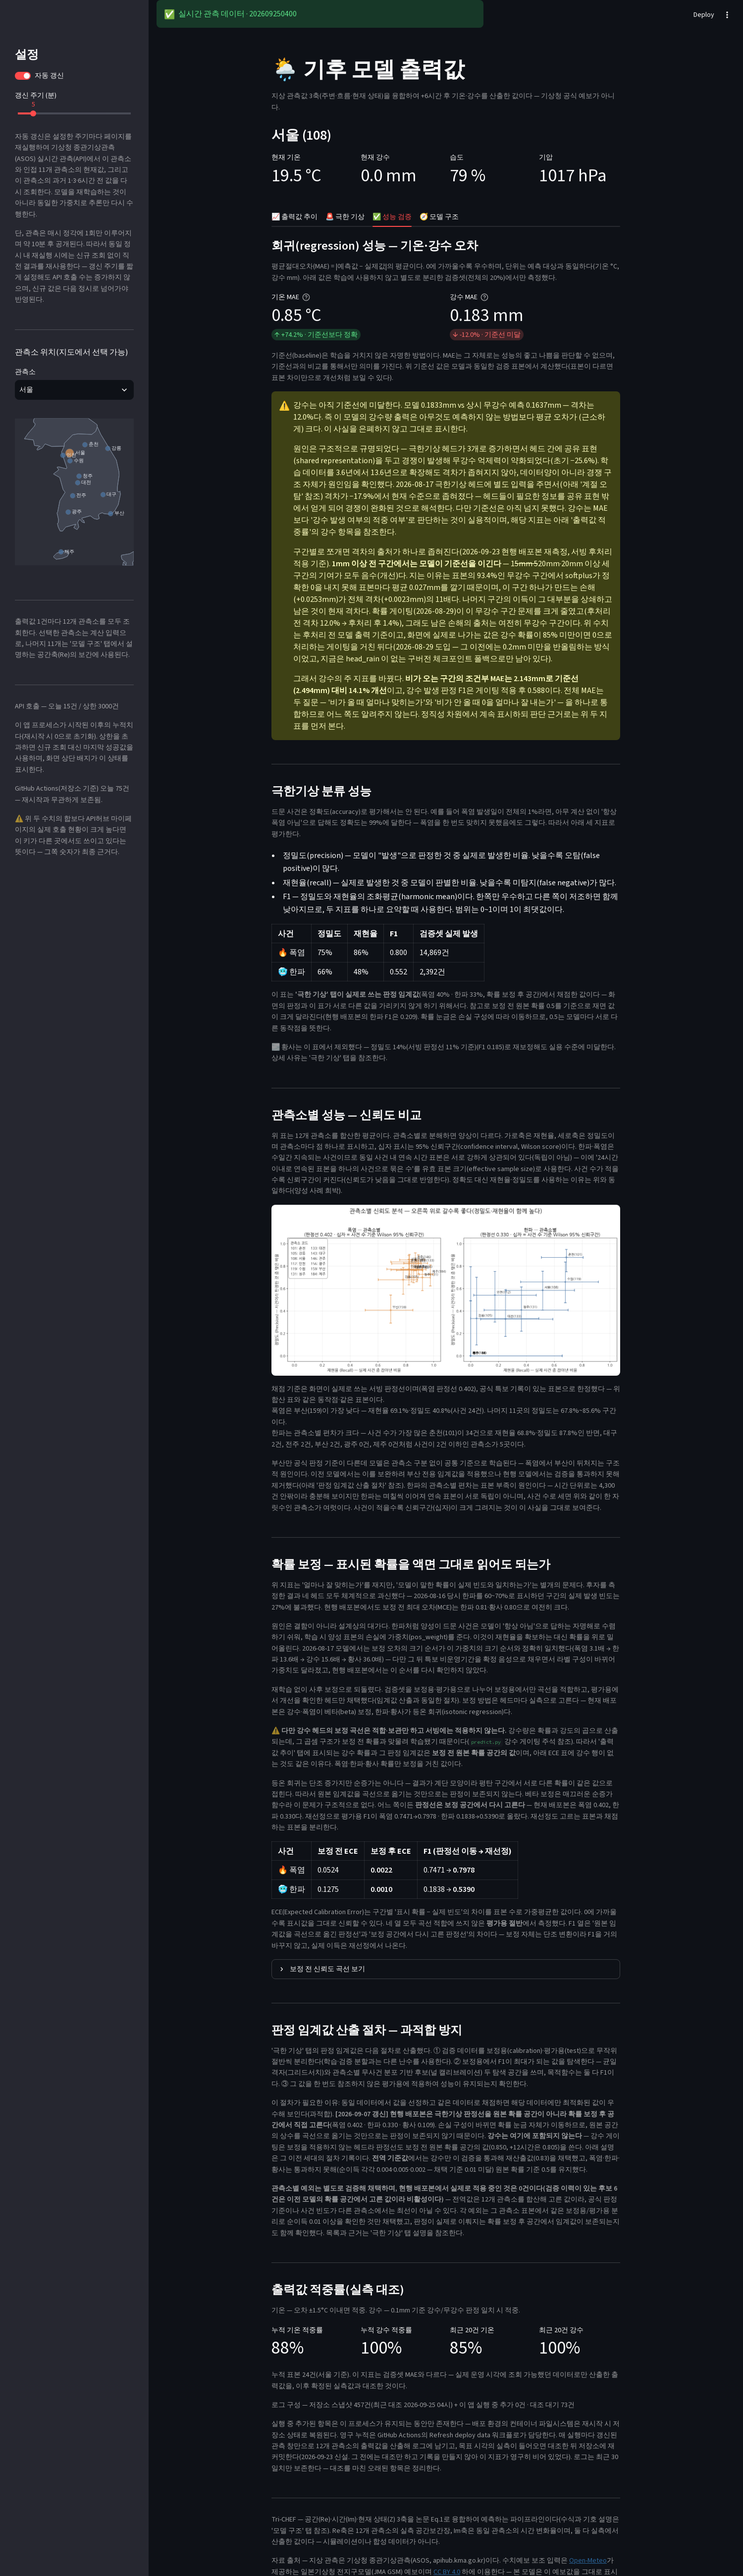
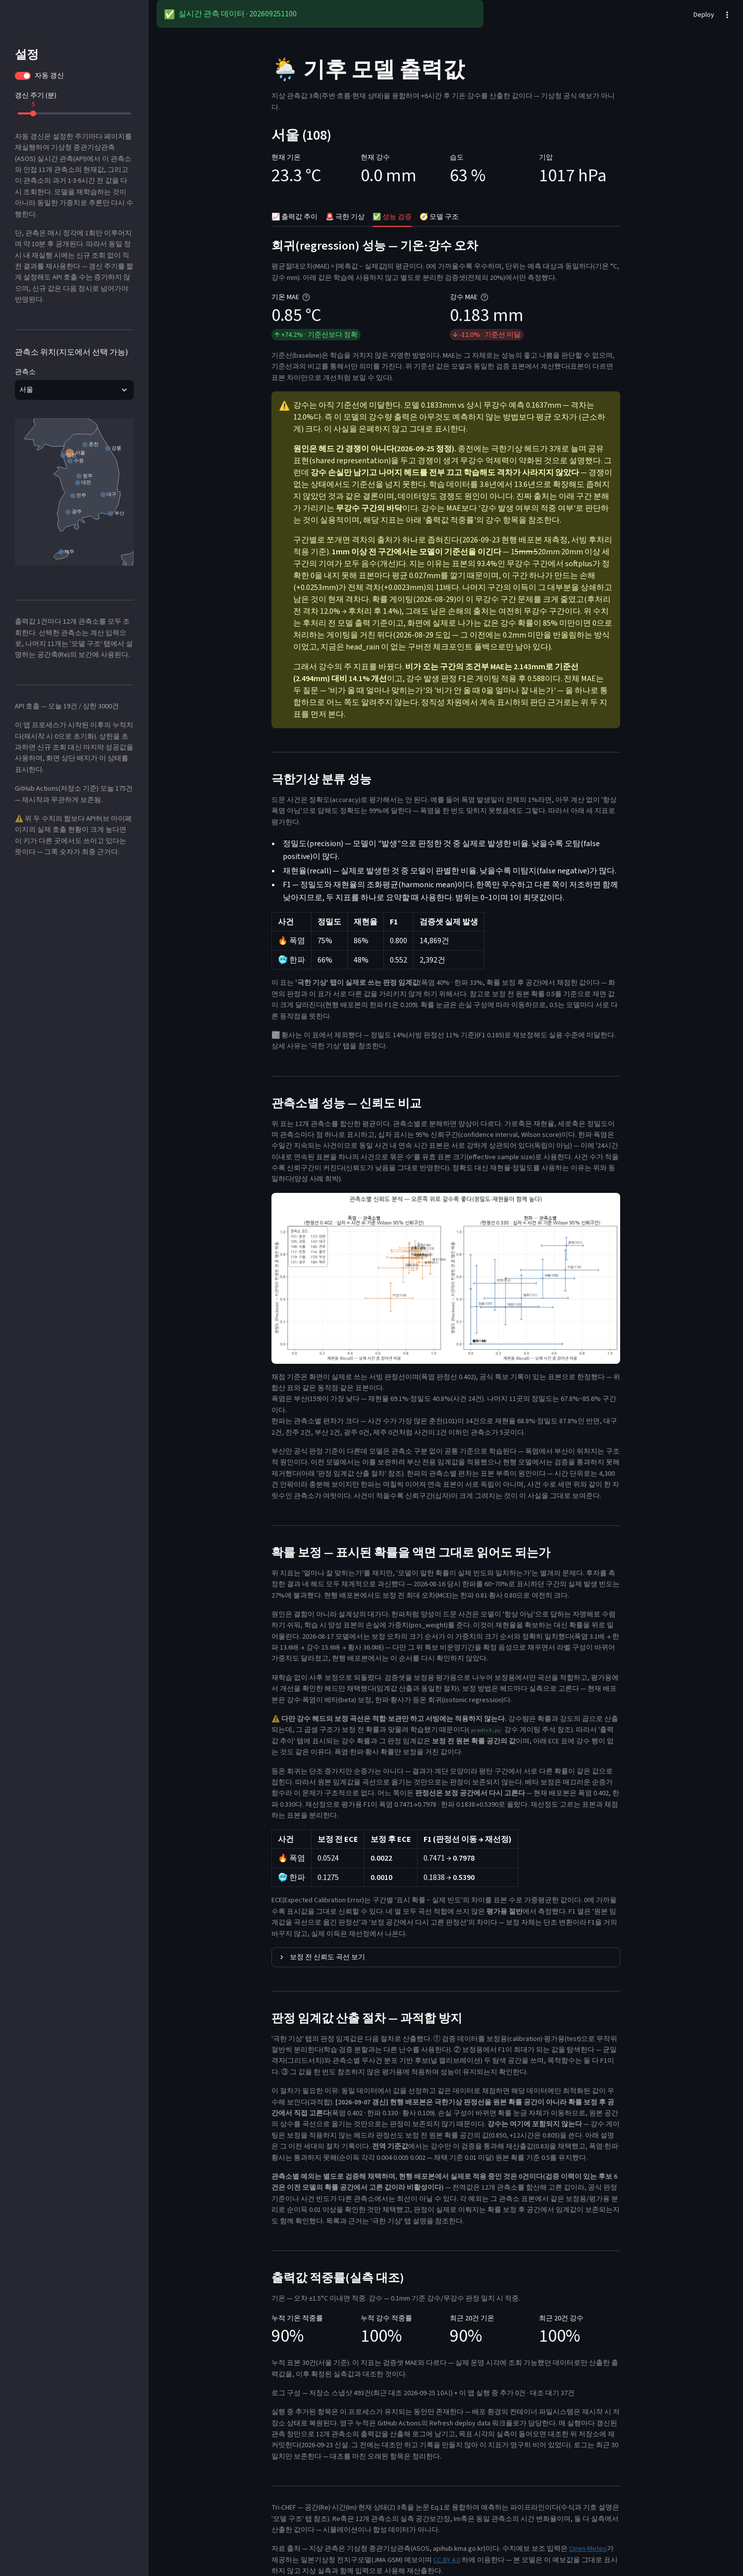
점검 — 기온 축 교체 이후 낡은 서술·산출물 8건과 화면 내부 모순 1건 수정
기온이 전용 모델로 바뀌면서 그 값에서 파생된 서술과 산출물이 한 세대
뒤처졌다. 전 범위를 대조해 고쳤다.

**① 산출물이 옛 기온으로 그려져 있었다.** `metrics_report.py`·
`error_breakdown.py` 에 `--temp-checkpoint` 를 추가해 **기온 예측만 전용
모델에서 가져온다**(표본 정렬이 다르면 멈춘다). 서빙이 그렇게 내므로
리포트도 그래야 한다 — 안 하면 그림·JSON 의 기온 칸만 뒤처진다. 재생성
결과 **기온 적중률(±1.5°C) 71.2% → 84.3%**, 기온 MAE 0.8513 · −74.2%.
강수 발생 일치 94.2% 는 서빙 후처리 기준이라 그대로 유효함을 확인했다.

**② 화면 안에서 두 서술이 모순됐다(정정).** 강수 경고문은 기준선 미달의
원인을 "헤드 간 공유 표현 경쟁"으로 설명하는데, 바로 아래 구간 분해는
"무강수 구간의 바닥이 전체 격차의 11배"라고 말한다. 어제 실험이 이를
가른다 — **강수 손실만 남기고 나머지를 전부 꺼도 격차가 사라지지 않고**
원본 MAE 는 오히려 0.1832→0.1874 로 나빠진다. 경쟁은 원인이 아니다.
화면·README·CLAUDE.md 세 곳을 함께 고쳤다(경위는 남긴다).

**③ 화면 지표 출처.** 기온 기준선(`val_temp_naive_mae`)도 기온을 낸
모델에서 읽는다 — 지금은 두 체크포인트 값이 같지만 출처를 섞어 두면
한쪽만 바뀌었을 때 조용히 어긋난다.

**④ README 낡은 서술 6건.**
- 요약 제목 날짜 2026-09-07 → 2026-09-25, 기온 전용 승격 상자 신설
- "정보 상한 0.51~0.52 는 지상 관측만 쓸 때의 상한" → 아키텍처의 성질
  이었음을 정정 링크(GBM 0.6285)
- 적중률 71.2% → 84.3%
- 리드타임 비교표 캡션이 "두 리드타임 모두 2026-09-07 모델"이라 적혀
  있었으나 기온 행만 다른 모델이다 — 각 행의 출처를 명시하고 본문 앵커를
  실제 해석되는 id 로 교체(제목이 아닌 문단을 가리켜 깨져 있었다)
- "+12시간 악화 완만(1.30→1.66°C)"·"기온 MAE −61.2%" 세대 표기
- "체크포인트 2종" → 4종(기온 전용 2개 추가, 각 260KB)

**⑤ 재현 절차 누락.** 실행 방법에 기온 전용 모델 학습·구간 적합·승격
3단계를 적었다 — 없으면 재현이 불가능하다.

검증: 탭 스크린샷 4장 재촬영해 화면에 기온 0.85°C·+74.2%·적중률이 실제로
반영됨을 확인. 시험 20/20 · 36/36 · 5/5.

Changed region(s): [[0.368, 0.1558, 0.828, 1.0]]

diff --git a/app.py b/app.py
@@ -1929,7 +1929,10 @@ with tab_perf:
         # 시각이 0mm 라 "항상 0mm 라고 답하는" 자명한 기준선의 MAE 도 아주 낮게
         # 나오고, 이 프로젝트의 모델은 실제로 그 기준선보다 나쁘다. 그 사실을
         # 가리는 표현을 쓰지 않는다는 것이 프로젝트 규칙이다.
-        _naive_temp   = ckpt.get("val_temp_naive_mae")
+        # 기온 기준선도 기온을 낸 모델에서 읽는다 — 두 체크포인트가 같은
+        # 분할이라 지금은 값이 같지만, 출처를 섞어 두면 나중에 한쪽만 바뀌었을
+        # 때 조용히 어긋난다.
+        _naive_temp   = (temp_ckpt or ckpt).get("val_temp_naive_mae")
         _naive_precip = ckpt.get("val_precip_naive_mae")
 
         def _baseline_delta(model_mae, naive_mae):
@@ -1976,15 +1979,15 @@ with tab_perf:
                 f"무강수 예측 {_naive_precip:.4f}mm — 격차는 {_gap:.1%}다. 즉 이 "
                 f"모델의 강수량 출력은 아무것도 예측하지 않는 방법보다 평균 오차가 "
                 f"(근소하게) 크다. 이 사실을 은폐하지 않고 그대로 표시한다.\n\n"
-                f"원인은 구조적으로 규명되었다 — 극한기상 헤드가 3개로 증가하면서 "
-                f"헤드 간에 공유 표현(shared representation)을 두고 경쟁이 발생해 "
-                f"무강수 억제력이 약화되었다(초기 −25.6%). 학습 데이터를 3.6년에서 "
-                f"13.6년으로 확장해도 격차가 좁혀지지 않아, 데이터양이 아니라 경쟁 "
-                f"구조 자체가 원인임을 확인했다. 2026-08-17 극한기상 헤드에 별도 "
-                f"입력을 주면서(아래 '계절 오탐' 참조) 격차가 −17.9%에서 현재 "
-                f"수준으로 좁혀졌다 — 헤드들이 필요한 정보를 공유 표현 밖에서 얻게 "
-                f"되어 경쟁이 완화된 것으로 해석한다. 다만 기준선은 아직 넘지 "
-                f"못했다. 강수는 MAE보다 '강수 발생 여부의 적중 여부'로 판단하는 "
+                f"**원인은 헤드 간 경쟁이 아니다(2026-09-25 정정).** 종전에는 "
+                f"극한기상 헤드가 3개로 늘며 공유 표현(shared representation)을 두고 "
+                f"경쟁이 생겨 무강수 억제력이 약화된 것으로 설명했다. 그런데 "
+                f"**강수 손실만 남기고 나머지 헤드를 전부 끄고 학습해도 격차가 "
+                f"사라지지 않았다** — 경쟁이 없는 상태에서도 기준선을 넘지 못한다. "
+                f"학습 데이터를 3.6년에서 13.6년으로 확장해도 좁혀지지 않았던 것과 "
+                f"같은 결론이며, 데이터양도 경쟁도 원인이 아니다. 진짜 출처는 아래 "
+                f"구간 분해가 가리키는 **무강수 구간의 바닥**이다. 강수는 MAE보다 "
+                f"'강수 발생 여부의 적중 여부'로 판단하는 "
                 f"것이 실용적이며, 해당 지표는 아래 '출력값 적중률'의 강수 항목을 "
                 f"참조한다.\n\n"
                 f"구간별로 쪼개면 격차의 출처가 하나로 좁혀진다(2026-09-23 "

diff --git a/metrics_report.py b/metrics_report.py
@@ -373,6 +373,9 @@ def main():
     ap = argparse.ArgumentParser()
     ap.add_argument("ckpt", nargs="?", default=CHECKPOINT)
     ap.add_argument("--batch", type=int, default=eval_cache.DEFAULT_BATCH)
+    ap.add_argument("--temp-checkpoint", default=None,
+                    help="기온 예측만 이 체크포인트에서 가져온다(서빙과 같은 구성). "
+                         "2026-09-25 부터 배포는 기온을 전용 모델이 낸다.")
     ap.add_argument("--no-plot", action="store_true",
                     help="그림을 다시 그리지 않는다. docs/images/metrics_report.png 는 "
                          "+6h 배포본 기준의 공용 산출물이라, 다른 리드타임이나 실험 "
@@ -386,6 +389,20 @@ def main():
     import torch
     ckpt = torch.load(args.ckpt, map_location="cpu", weights_only=True)
     d = eval_cache.load(args.ckpt, args.batch)
+    if args.temp_checkpoint:
+        # 서빙이 기온을 전용 모델에서 내므로 리포트도 그래야 한다 — 안 하면
+        # 그림·JSON 의 기온 칸만 한 세대 뒤처진다(이 저장소가 반복해 겪은
+        # "수치는 바뀌었는데 서술은 그대로" 유형이다).
+        dt = eval_cache.build(args.temp_checkpoint, args.batch)
+        same = (len(dt["temp_true"]) == len(d["temp_true"])
+                and (dt["tgt_ts"] == d["tgt_ts"]).all()
+                and (dt["stn"] == d["stn"]).all())
+        if not same:
+            raise SystemExit("기온 체크포인트의 검증 표본이 주 체크포인트와 "
+                             "다르다 — 같은 표에 섞을 수 없다.")
+        d = dict(d)
+        d["temp_pred"] = dt["temp_pred"]
+        print(f"기온 예측 출처: {args.temp_checkpoint} (서빙과 동일)")
 
     acc = accuracy_block(d, ckpt)
     pre = precision_block(d, ckpt)

diff --git a/error_breakdown.py b/error_breakdown.py
@@ -232,6 +232,8 @@ def main():
     ap = argparse.ArgumentParser()
     ap.add_argument("ckpt", nargs="?", default=CHECKPOINT)
     ap.add_argument("--batch", type=int, default=eval_cache.DEFAULT_BATCH)
+    ap.add_argument("--temp-checkpoint", default=None,
+                    help="기온 예측만 이 체크포인트에서 가져온다(서빙과 동일).")
     ap.add_argument("--served", action="store_true",
                     help="서빙 후처리(rain_prob < PRECIP_PROB_GATE 면 0)를 적용한 값으로 분해한다")
     args = ap.parse_args()
@@ -241,6 +243,17 @@ def main():
     prob_gate = PRECIP_PROB_GATE_BY_LEAD.get(ckpt.get("lead_hours"), PRECIP_PROB_GATE)
 
     d = eval_cache.load(args.ckpt, args.batch)
+    if args.temp_checkpoint:
+        # metrics_report.py 와 같은 이유 — 서빙이 기온을 전용 모델에서 내므로
+        # 기온 구간 분해도 그 모델의 오차로 그려야 한다.
+        dt = eval_cache.build(args.temp_checkpoint, args.batch)
+        if not (len(dt["temp_true"]) == len(d["temp_true"])
+                and (dt["tgt_ts"] == d["tgt_ts"]).all()
+                and (dt["stn"] == d["stn"]).all()):
+            raise SystemExit("기온 체크포인트의 검증 표본이 다르다 — 섞을 수 없다.")
+        d = dict(d)
+        d["temp_pred"] = dt["temp_pred"]
+        print(f"기온 예측 출처: {args.temp_checkpoint} (서빙과 동일)")
     pp = d["precip_pred"]
     if args.served:
         pp = np.where(d["rain_prob"] < prob_gate, 0.0, pp)
